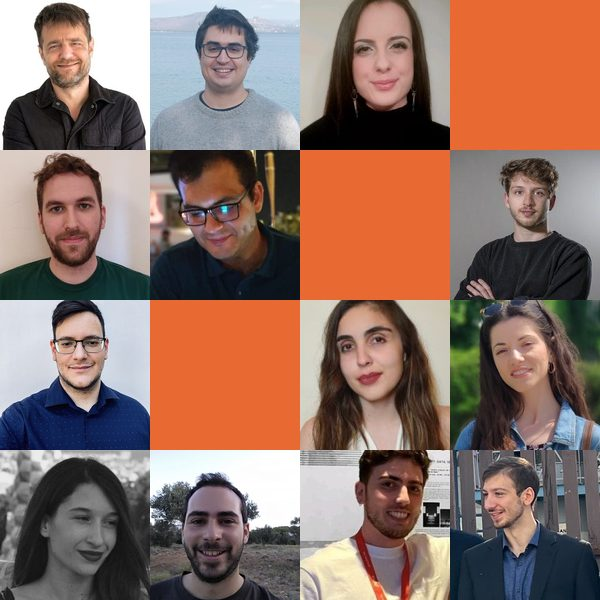
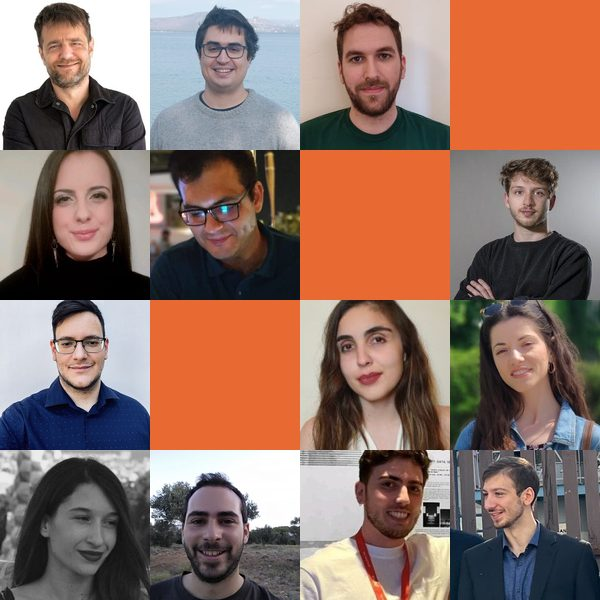
Drop the About page; reorder the PhD students
- about.html and its unused tile image removed; the About Us entry is
  gone from every menu and the tile from the home page. The Team tile
  takes the freed style1 colour so no two tiles in a row match.
- Team: Panagiotis Koromilas now listed before Sofia Eleftheriou under
  PhD Students; the home-page mosaic is rebuilt in the same order.

Changed region(s): [[0.0, 0.24, 0.27, 0.51], [0.48, 0.0, 0.75, 0.27]]

diff --git a/team.html b/team.html
@@ -54,7 +54,6 @@
 			<h2>Menu</h2>
 			<ul>
 				<li><a href="index.html">Home</a></li>
-				<li><a href="about.html">About Us</a></li>
 				<li><a href="team.html">Team</a></li>
 				<li><a href="solutions.html">Research Areas</a></li>
 				<li><a href="projects.html">Projects</a></li>
@@ -115,6 +114,16 @@
 							<tbody>
 
 								<tr>
+									<td><img src="images/koromilas_photo.jpg" height="100" alt="" /></td>
+									<td><a href="http://tyiannak.github.com/" target="_blank">Panagiotis Koromilas</a>
+									</td>
+									<td>PhD Student</td>
+									<td>
+										<a href="https://github.com/lobracost"
+											class="icon brands style2 fa-github"><span class="label">GitHub</span></a>
+									</td>
+								</tr>
+								<tr>
 									<td><img src="images/eleftheriou_photo.jpeg" height="100" alt="" /></td>
 								<td><a href="" target="_blank">
 										Sofia Eleftheriou
@@ -125,18 +134,6 @@
 											class="label">GitHub</span></a>
 								</td>
 								</tr>
-
-								<tr>
-									<td><img src="images/koromilas_photo.jpg" height="100" alt="" /></td>
-									<td><a href="http://tyiannak.github.com/" target="_blank">Panagiotis Koromilas</a>
-									</td>
-									<td>PhD Student</td>
-									<td>
-										<a href="https://github.com/lobracost"
-											class="icon brands style2 fa-github"><span class="label">GitHub</span></a>
-									</td>
-								</tr>
-
 								<tr>
 									<td><img src="images/christossgou.png" height="100" alt="" /></td>
 									<td><a href="https://www.linkedin.com/in/christos-sgouropoulos/" target="_blank">
@@ -147,7 +144,6 @@
 											class="icon brands style2 fa-github"><span class="label">GitHub</span></a>
 									</td>
 								</tr>
-
 								<tr>
 									<td><img src="images/petsangourakis.jpeg" height="100" alt="" /></td>
 									<td><a href="https://www.linkedin.com/in/giorgos-petsangourakis/" target="_blank">
@@ -158,7 +154,6 @@
 											class="icon brands style2 fa-github"><span class="label">GitHub</span></a>
 									</td>
 								</tr>
-
 								<tr>
 									<td><img src="images/foukanelis_photo.png" height="100" alt="" /></td>
 									<td><a href="" target="_blank">Christos Foukanelis</a></td>
@@ -167,7 +162,6 @@
 										<!-- TODO: Ask for photo -->
 									</td>
 								</tr>
-
 								<tr>
 									<td><img src="images/antonia_photo.jpg" height="100" alt="" /></td>
 									<td><a href="" target="_blank">
@@ -178,7 +172,6 @@
 											class="icon brands style2 fa-github"><span class="label">GitHub</span></a>
 									</td>
 								</tr>
-
 								<tr>
 									<td><img src="images/eleanna_photo.png" height="100" alt="" /></td>
 									<td><a href="" target="_blank">
@@ -189,7 +182,6 @@
 											class="icon brands style2 fa-github"><span class="label">GitHub</span></a>
 									</td>
 								</tr>
-
 								<tr>
 									<td><img src="images/ellie_photo.png" height="100" alt="" /></td>
 									<td><a href="" target="_blank">

diff --git a/index.html b/index.html
@@ -57,7 +57,6 @@
 			<h2>Menu</h2>
 			<ul>
 				<li><a href="index.html">Home</a></li>
-				<li><a href="about.html">About Us</a></li>
 				<li><a href="team.html">Team</a></li>
 				<li><a href="solutions.html">Research Areas</a></li>
 				<li><a href="projects.html">Projects</a></li>
@@ -86,26 +85,15 @@
 				<section class="tiles">
 						<article class="style1">
 							<span class="image">
-								<img src="images/about.png" alt="" />
+								<img src="images/team.jpg" alt="" />
 							</span>
-							<a href="about.html">
-								<h2>About Us</h2>
+							<a href="team.html">
+								<h2>Team</h2>
 								<div class="content">
-									<p>Who we are</p>
+									<p>Researchers, PhD students and engineers</p>
 								</div>
 							</a>
 						</article>
-					<article class="style3">
-						<span class="image">
-							<img src="images/team.jpg" alt="" />
-						</span>
-						<a href="team.html">
-							<h2>Team</h2>
-							<div class="content">
-								<p>Researchers, PhD students and engineers</p>
-							</div>
-						</a>
-					</article>
 						<article class="style2">
 							<span class="image">
 								<img src="images/solutions.png" alt="" />

diff --git a/demos.html b/demos.html
@@ -50,7 +50,6 @@
 						<h2>Menu</h2>
 						<ul>
 							<li><a href="index.html">Home</a></li>
-							<li><a href="about.html">About Us</a></li>
 							<li><a href="team.html">Team</a></li>
 							<li><a href="solutions.html">Research Areas</a></li>
 							<li><a href="projects.html">Projects</a></li>

diff --git a/education.html b/education.html
@@ -50,7 +50,6 @@
 						<h2>Menu</h2>
 						<ul>
 							<li><a href="index.html">Home</a></li>
-							<li><a href="about.html">About Us</a></li>
 							<li><a href="team.html">Team</a></li>
 							<li><a href="solutions.html">Research Areas</a></li>
 							<li><a href="projects.html">Projects</a></li>

diff --git a/solutions.html b/solutions.html
@@ -50,7 +50,6 @@
 						<h2>Menu</h2>
 						<ul>
 							<li><a href="index.html">Home</a></li>
-							<li><a href="about.html">About Us</a></li>
 							<li><a href="team.html">Team</a></li>
 							<li><a href="solutions.html">Research Areas</a></li>
 							<li><a href="projects.html">Projects</a></li>

diff --git a/code.html b/code.html
@@ -54,7 +54,6 @@
 			<h2>Menu</h2>
 			<ul>
 				<li><a href="index.html">Home</a></li>
-				<li><a href="about.html">About Us</a></li>
 				<li><a href="team.html">Team</a></li>
 				<li><a href="solutions.html">Research Areas</a></li>
 				<li><a href="projects.html">Projects</a></li>

diff --git a/projects.html b/projects.html
@@ -55,7 +55,6 @@
 			<h2>Menu</h2>
 			<ul>
 				<li><a href="index.html">Home</a></li>
-				<li><a href="about.html">About Us</a></li>
 				<li><a href="team.html">Team</a></li>
 				<li><a href="solutions.html">Research Areas</a></li>
 				<li><a href="projects.html">Projects</a></li>

diff --git a/pub.html b/pub.html
@@ -55,7 +55,6 @@
 			<h2>Menu</h2>
 			<ul>
 				<li><a href="index.html">Home</a></li>
-				<li><a href="about.html">About Us</a></li>
 				<li><a href="team.html">Team</a></li>
 				<li><a href="solutions.html">Research Areas</a></li>
 				<li><a href="projects.html">Projects</a></li>
